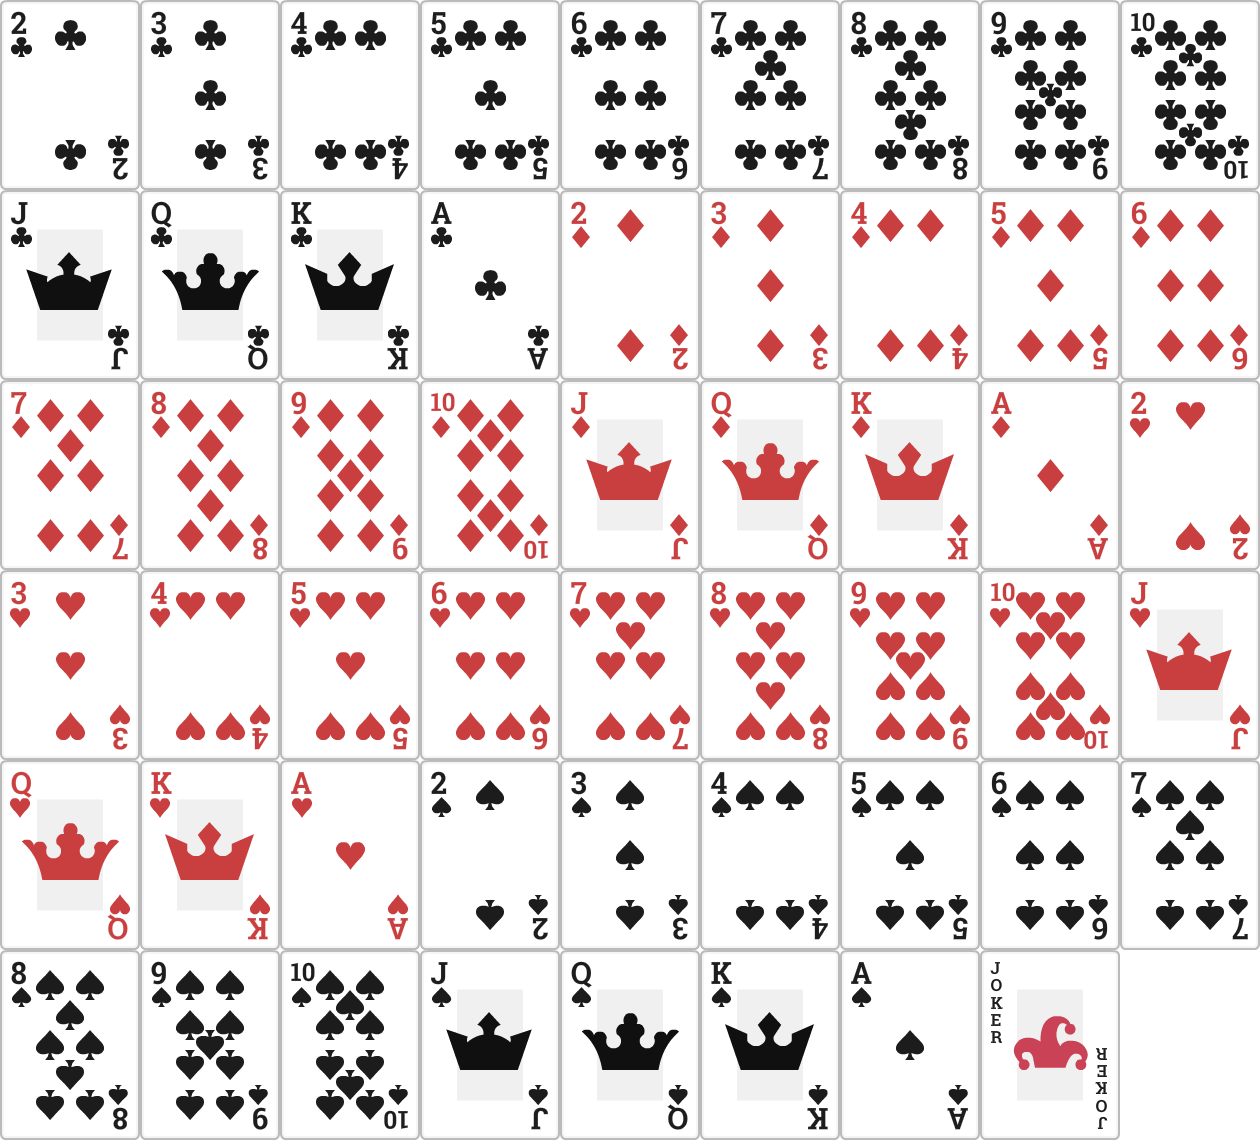
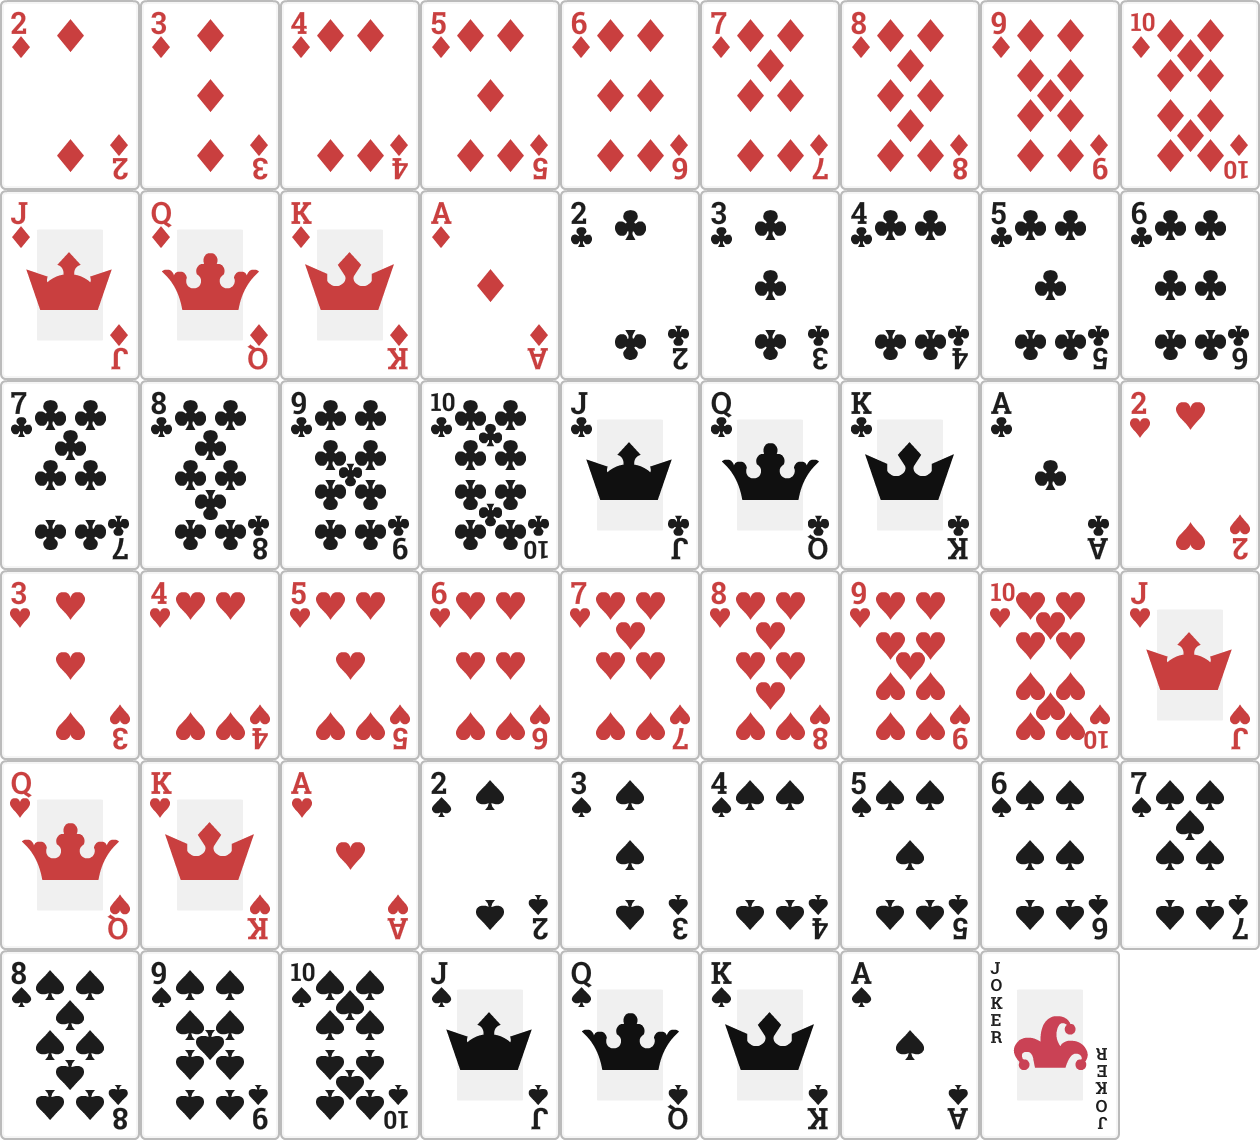
Display cards sorted

diff --git a/Play.cpp b/Play.cpp
@@ -1,5 +1,10 @@
 #include "Play.hpp"
+#include <bits/stdc++.h>
 
+// Used for sorting Cards
+bool compare(Card & c1, Card & c2){
+    return c1.getN() > c2.getN();
+}
 
 void Play::playGame(){ 
 
@@ -37,7 +42,7 @@ void Play::playGame(){
 
     // seperate first 13 cards
     card1.assign(allCards.begin(),allCards.begin()+13);
-    
+    sort(card1.begin(),card1.end(),compare);
     loadPlayerCard(card1, cardFrontTexture);
     
     //load texture for the 13 cards
@@ -119,7 +124,6 @@ void Play::showCardBacks()
     cardBack[0] = getCardBackSprite(cardBackTexture, GAME_WIDTH/2 - Card::eachCardWidth/2, 0, false);
     cardBack[1] = getCardBackSprite(cardBackTexture, 130, GAME_HEIGHT/2 - Card::eachCardHeight/2, true);
     cardBack[2] = getCardBackSprite(cardBackTexture, GAME_WIDTH, GAME_HEIGHT/2 - Card::eachCardHeight/2, true);
-
 
 }
 

diff --git a/Credits.cpp b/Credits.cpp
@@ -34,7 +34,6 @@ Credits::Credits(float width)
 	// Postion for esc
 	escapeText.setPosition(sf::Vector2f(0, 0));
 
-
 }
 
 
@@ -47,13 +46,11 @@ void Credits::renderCredits(sf::RenderWindow& window){
 	
 
 	//	Credits Text motion Setting
-	creditsText.move(0, 0.6f);
+	creditsText.move(0, 0.1f);
 	if (creditsText.getPosition().y > (600))	//	Manually assigned 600
 	{
 		creditsText.setPosition(800 / 2 - 80, 0);	//	Manually assigned 800
 	}
 
 }
-
-
 

diff --git a/Cards.cpp b/Cards.cpp
@@ -44,3 +44,7 @@ void Card:: operator=(const Card & c1){
 void Card::display(){
     std::cout<<"suit: "<<suit<<" rank: "<<rank<<std::endl;
 }
+
+int Card::getN(){
+    return suit*13 + rank;
+}

diff --git a/Cards.hpp b/Cards.hpp
@@ -20,4 +20,5 @@ class Card{
         bool isSmlThan(const Card & c1);
         void operator = (const Card & c1);
         void display();
+        int getN();
 };
